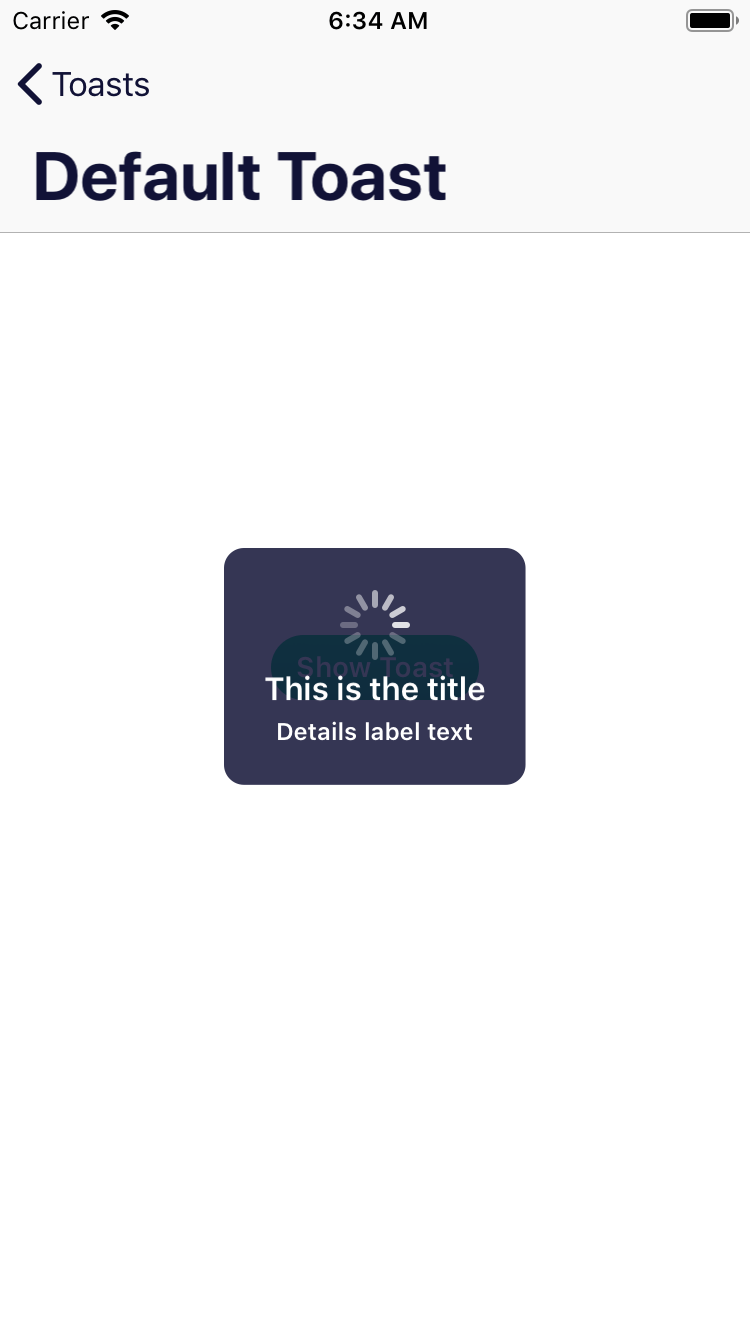
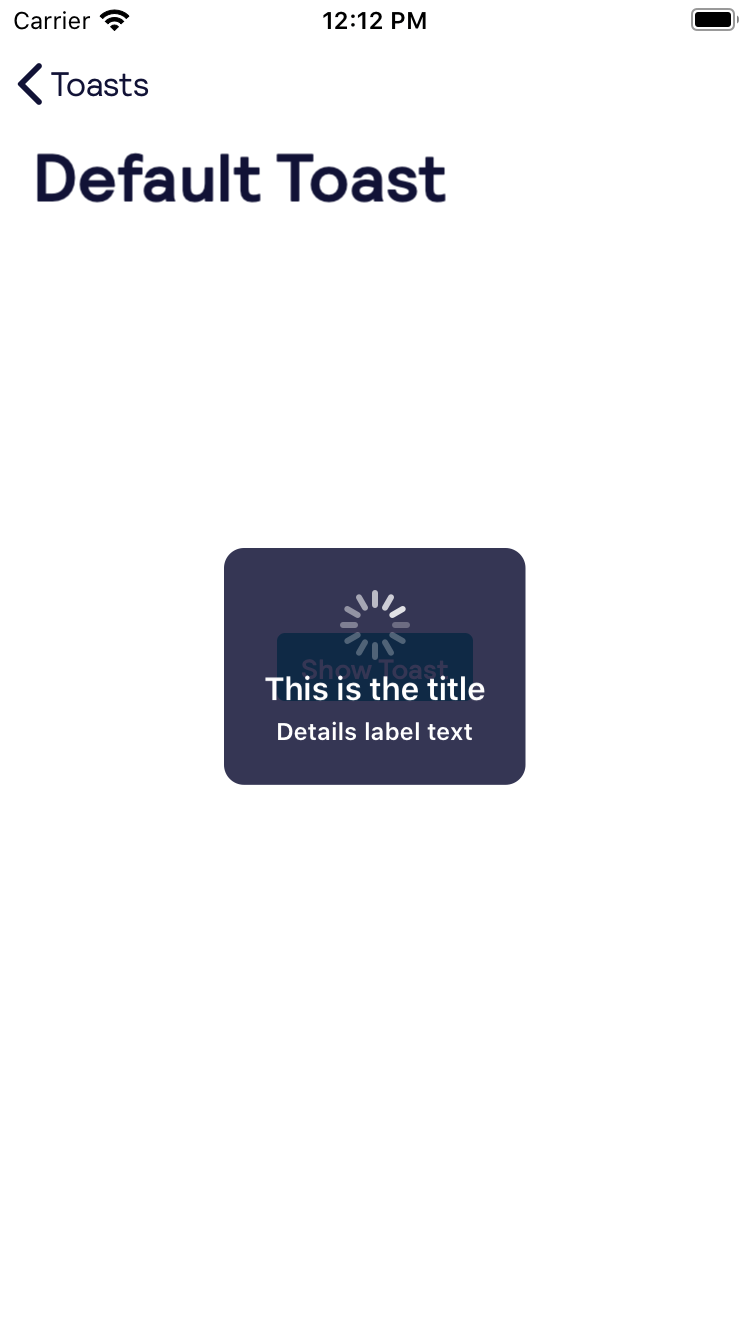
[BPK-3423] Lighten toast background in dark mode

diff --git a/Backpack/Toast/Classes/BPKToast.m b/Backpack/Toast/Classes/BPKToast.m
@@ -129,7 +129,7 @@ NSString *const ToastAccessibilityIdentifier = @"toastView";
 }
 
 - (void)setupHUD {
-    self.hud.color = [BPKColor.skyGray colorWithAlphaComponent:0.85];
+    self.hud.color = [[BPKColor dynamicColorWithLightVariant:BPKColor.skyGray darkVariant:BPKColor.blackTint03] colorWithAlphaComponent:0.85];
     self.hud.delegate = self;
     self.hud.accessibilityIdentifier = ToastAccessibilityIdentifier;
 }

diff --git a/UNRELEASED.md b/UNRELEASED.md
@@ -6,6 +6,11 @@
 - Backpack/Calendar
   - New feature to set different colours for specific dates.
 
+**Fixed:**
+
+ - Backpack/Toast
+   - Fixed the toast's appearance in dark mode.
+
 ## How to write a good changelog entry
 1. Add 'Breaking', 'Added' or 'Fixed' in bold depending on if the change will be major, minor or patch according to [semver](semver.org).
 2. Add the package name.
